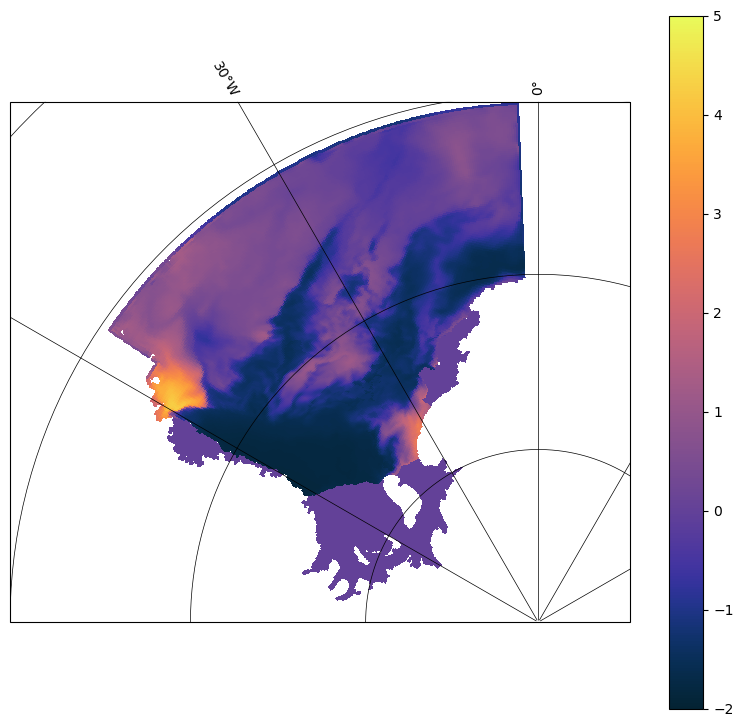
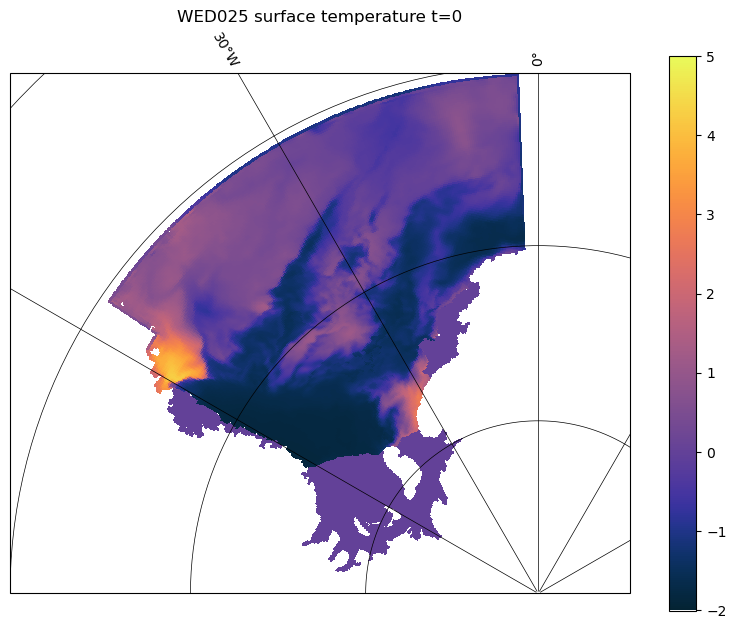
modif plot

diff --git a/one_plot_WED025.py b/one_plot_WED025.py
@@ -39,6 +39,7 @@ gl.top_labels   = True
 gl.right_labels = True
 gl.bottom_labels   = False
 gl.left_labels = True
+ax.set_title('WED025 surface temperature t='+str(tt))
 
 cnf1  = ax.pcolormesh(lon, lat, datam,
                           cmap=cmocean.cm.thermal,
@@ -46,5 +47,6 @@ cnf1  = ax.pcolormesh(lon, lat, datam,
                           vmax=5,
 #                          shading='flat',
                           transform=ccrs.PlateCarree())
-fig.colorbar(cnf1)
+fig.colorbar(cnf1,shrink=0.8)
+
 plt.savefig('plot_tos_WED025.png',bbox_inches='tight')
